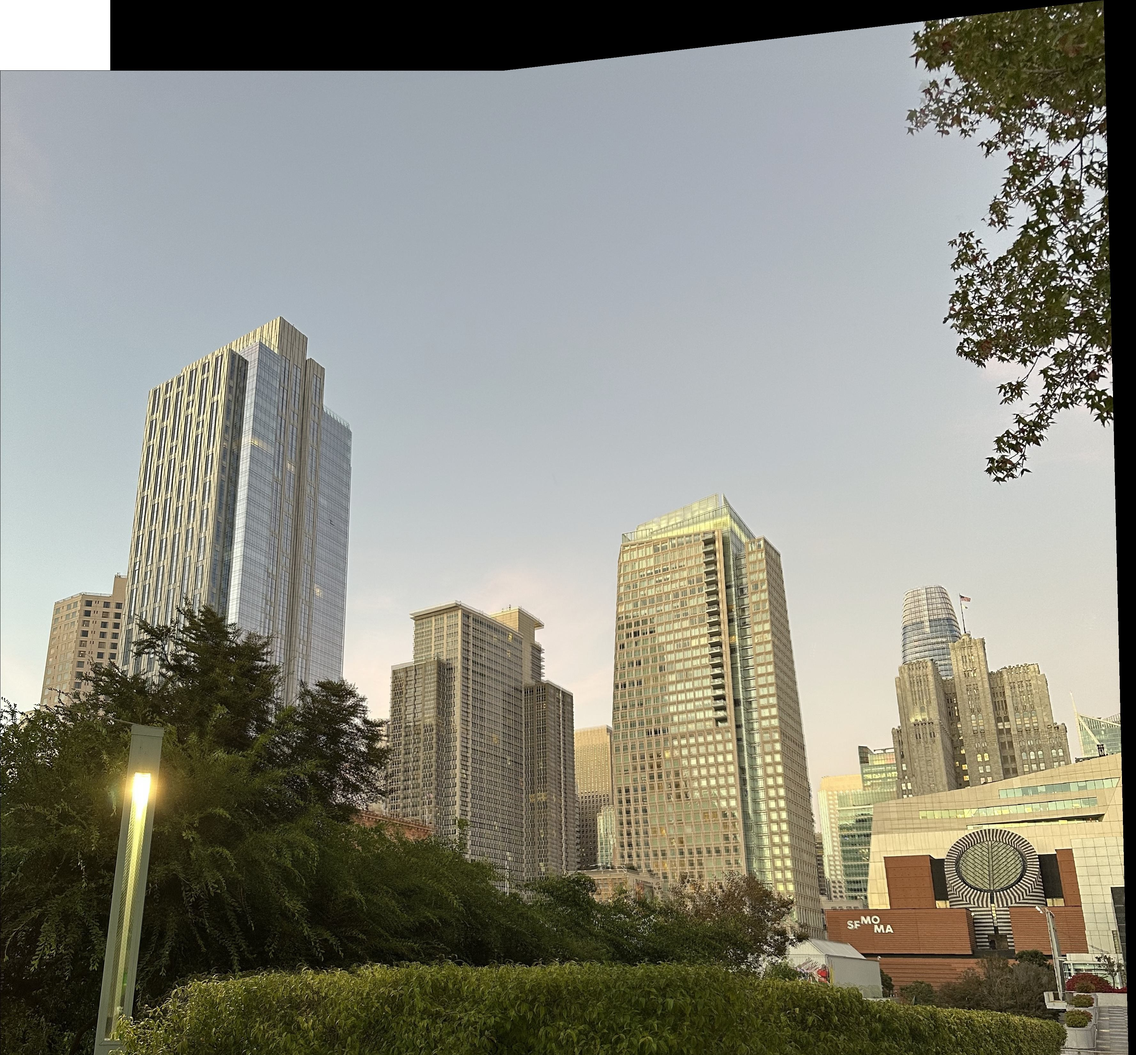
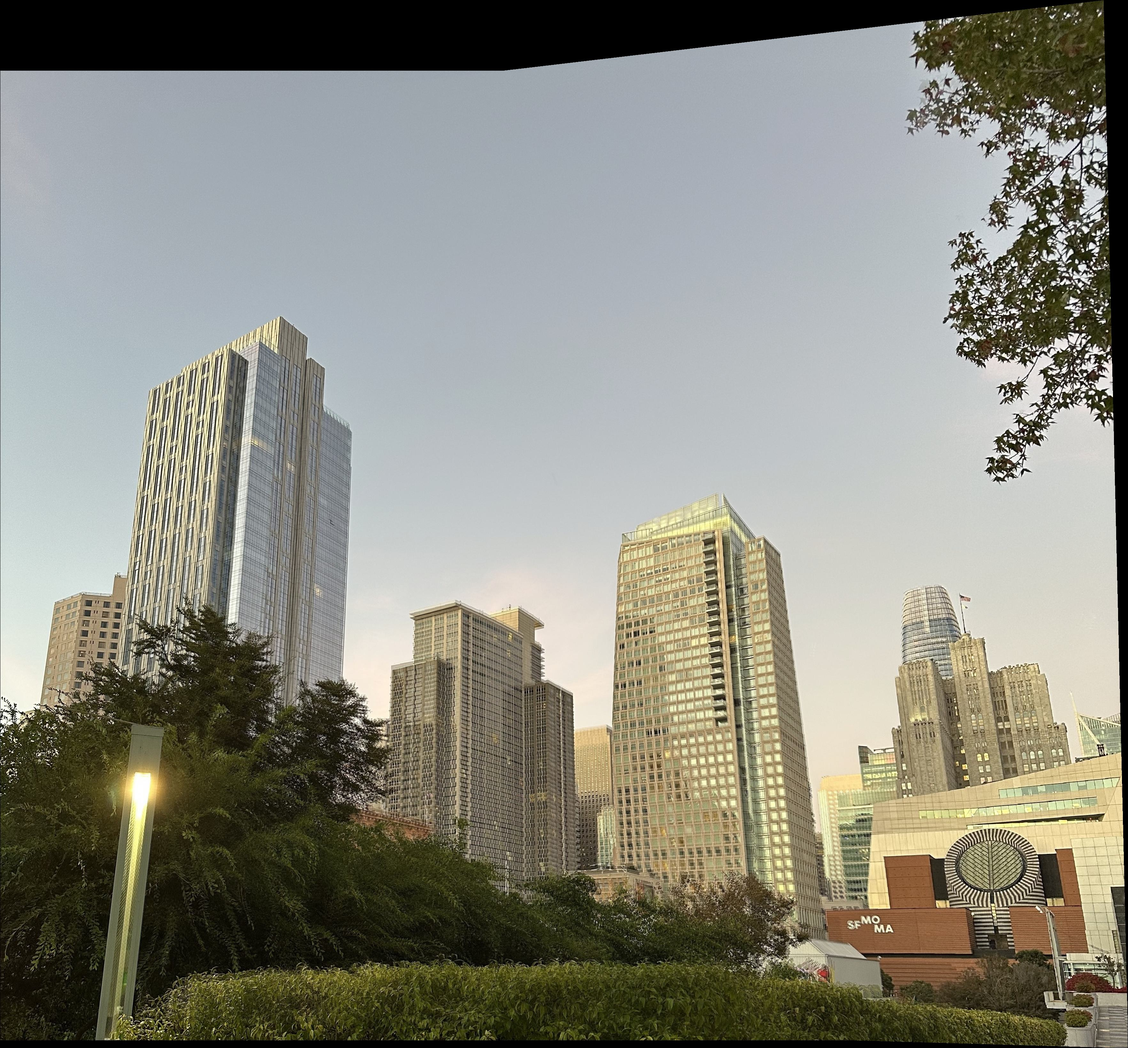
fixed images on website

Changed region(s): [[0.0, 0.0, 1.0, 1.0], [0.0, 0.0, 0.1247, 0.0933]]

diff --git a/4/index.html b/4/index.html
@@ -1,5 +1,6 @@
 <!DOCTYPE html>
 <html lang="en">
+
 <head>
     <meta charset="UTF-8">
     <meta name="viewport" content="width=device-width, initial-scale=1.0">
@@ -14,6 +15,7 @@
         }
     </style>
 </head>
+
 <body>
     <div class="container mt-5">
         <header class="text-center mb-5">
@@ -23,7 +25,9 @@
 
         <section class="bg-dark-section">
             <h2>Part 1: Capturing Images</h2>
-            <p>I captured several sets of images for this project. The first set was taken at CalHacks in San Francisco, while the others were shot around Berkeley. I made sure to maintain significant overlap between consecutive images for better registration.</p>
+            <p>I captured several sets of images for this project. The first set was taken at CalHacks in San Francisco,
+                while the others were shot around Berkeley. I made sure to maintain significant overlap between
+                consecutive images for better registration.</p>
             <div class="row justify-content-center text-center">
                 <div class="col-md-6">
                     <figure class="figure">
@@ -42,12 +46,16 @@
 
         <section class="bg-dark-section">
             <h2>Part 2: Computing Homographies</h2>
-            <p>I implemented a custom homography computation without using built-in functions. Using corresponding points between image pairs, I set up a system of linear equations and solved for the homography matrix H using least squares to handle overdetermined systems and reduce the impact of noise.</p>
+            <p>I implemented a custom homography computation without using built-in functions. Using corresponding
+                points between image pairs, I set up a system of linear equations and solved for the homography matrix H
+                using least squares to handle overdetermined systems and reduce the impact of noise.</p>
         </section>
 
         <section class="bg-dark-section">
             <h2>Part 3: Image Rectification</h2>
-            <p>To verify the homography computation and warping implementation, I tested the system on simple rectangular objects. These examples clearly demonstrate successful recovery from perspective distortion:</p>
+            <p>To verify the homography computation and warping implementation, I tested the system on simple
+                rectangular objects. These examples clearly demonstrate successful recovery from perspective distortion:
+            </p>
             <div class="row justify-content-center text-center">
                 <div class="col-md-6">
                     <figure class="figure">
@@ -81,7 +89,9 @@
 
         <section class="bg-dark-section">
             <h2>Part 4: Image Mosaicing</h2>
-            <p>I created panoramic mosaics by carefully mapping corresponding points between images. For blending, I used bwdist with additional smoothing techniques to generate masks with appropriate weights for combining the images. Some challenges I encountered included:</p>
+            <p>I created panoramic mosaics by carefully mapping corresponding points between images. For blending, I
+                used bwdist with additional smoothing techniques to generate masks with appropriate weights for
+                combining the images. Some challenges I encountered included:</p>
             <ul>
                 <li>Fuzzy areas in regions without good correspondences</li>
                 <li>Artifacts from moving objects (e.g., cars) and changing shadows</li>
@@ -96,8 +106,8 @@
                 </div>
                 <div class="col-12 mb-4">
                     <figure class="figure">
-                        <img src="images/mosaic_output.jpg" class="img-fluid" alt="Berkeley Mosaic">
-                        <figcaption class="text-center">Berkeley Campus Mosaic</figcaption>
+                        <img src="images/shot34_mosaic_output.jpg" class="img-fluid" alt="Berkeley Mosaic">
+                        <figcaption class="text-center">Berkeley Mosaic</figcaption>
                     </figure>
                 </div>
                 <div class="col-12">
@@ -112,4 +122,5 @@
 
     <script src="https://cdn.jsdelivr.net/npm/bootstrap@5.1.3/dist/js/bootstrap.bundle.min.js"></script>
 </body>
+
 </html>
